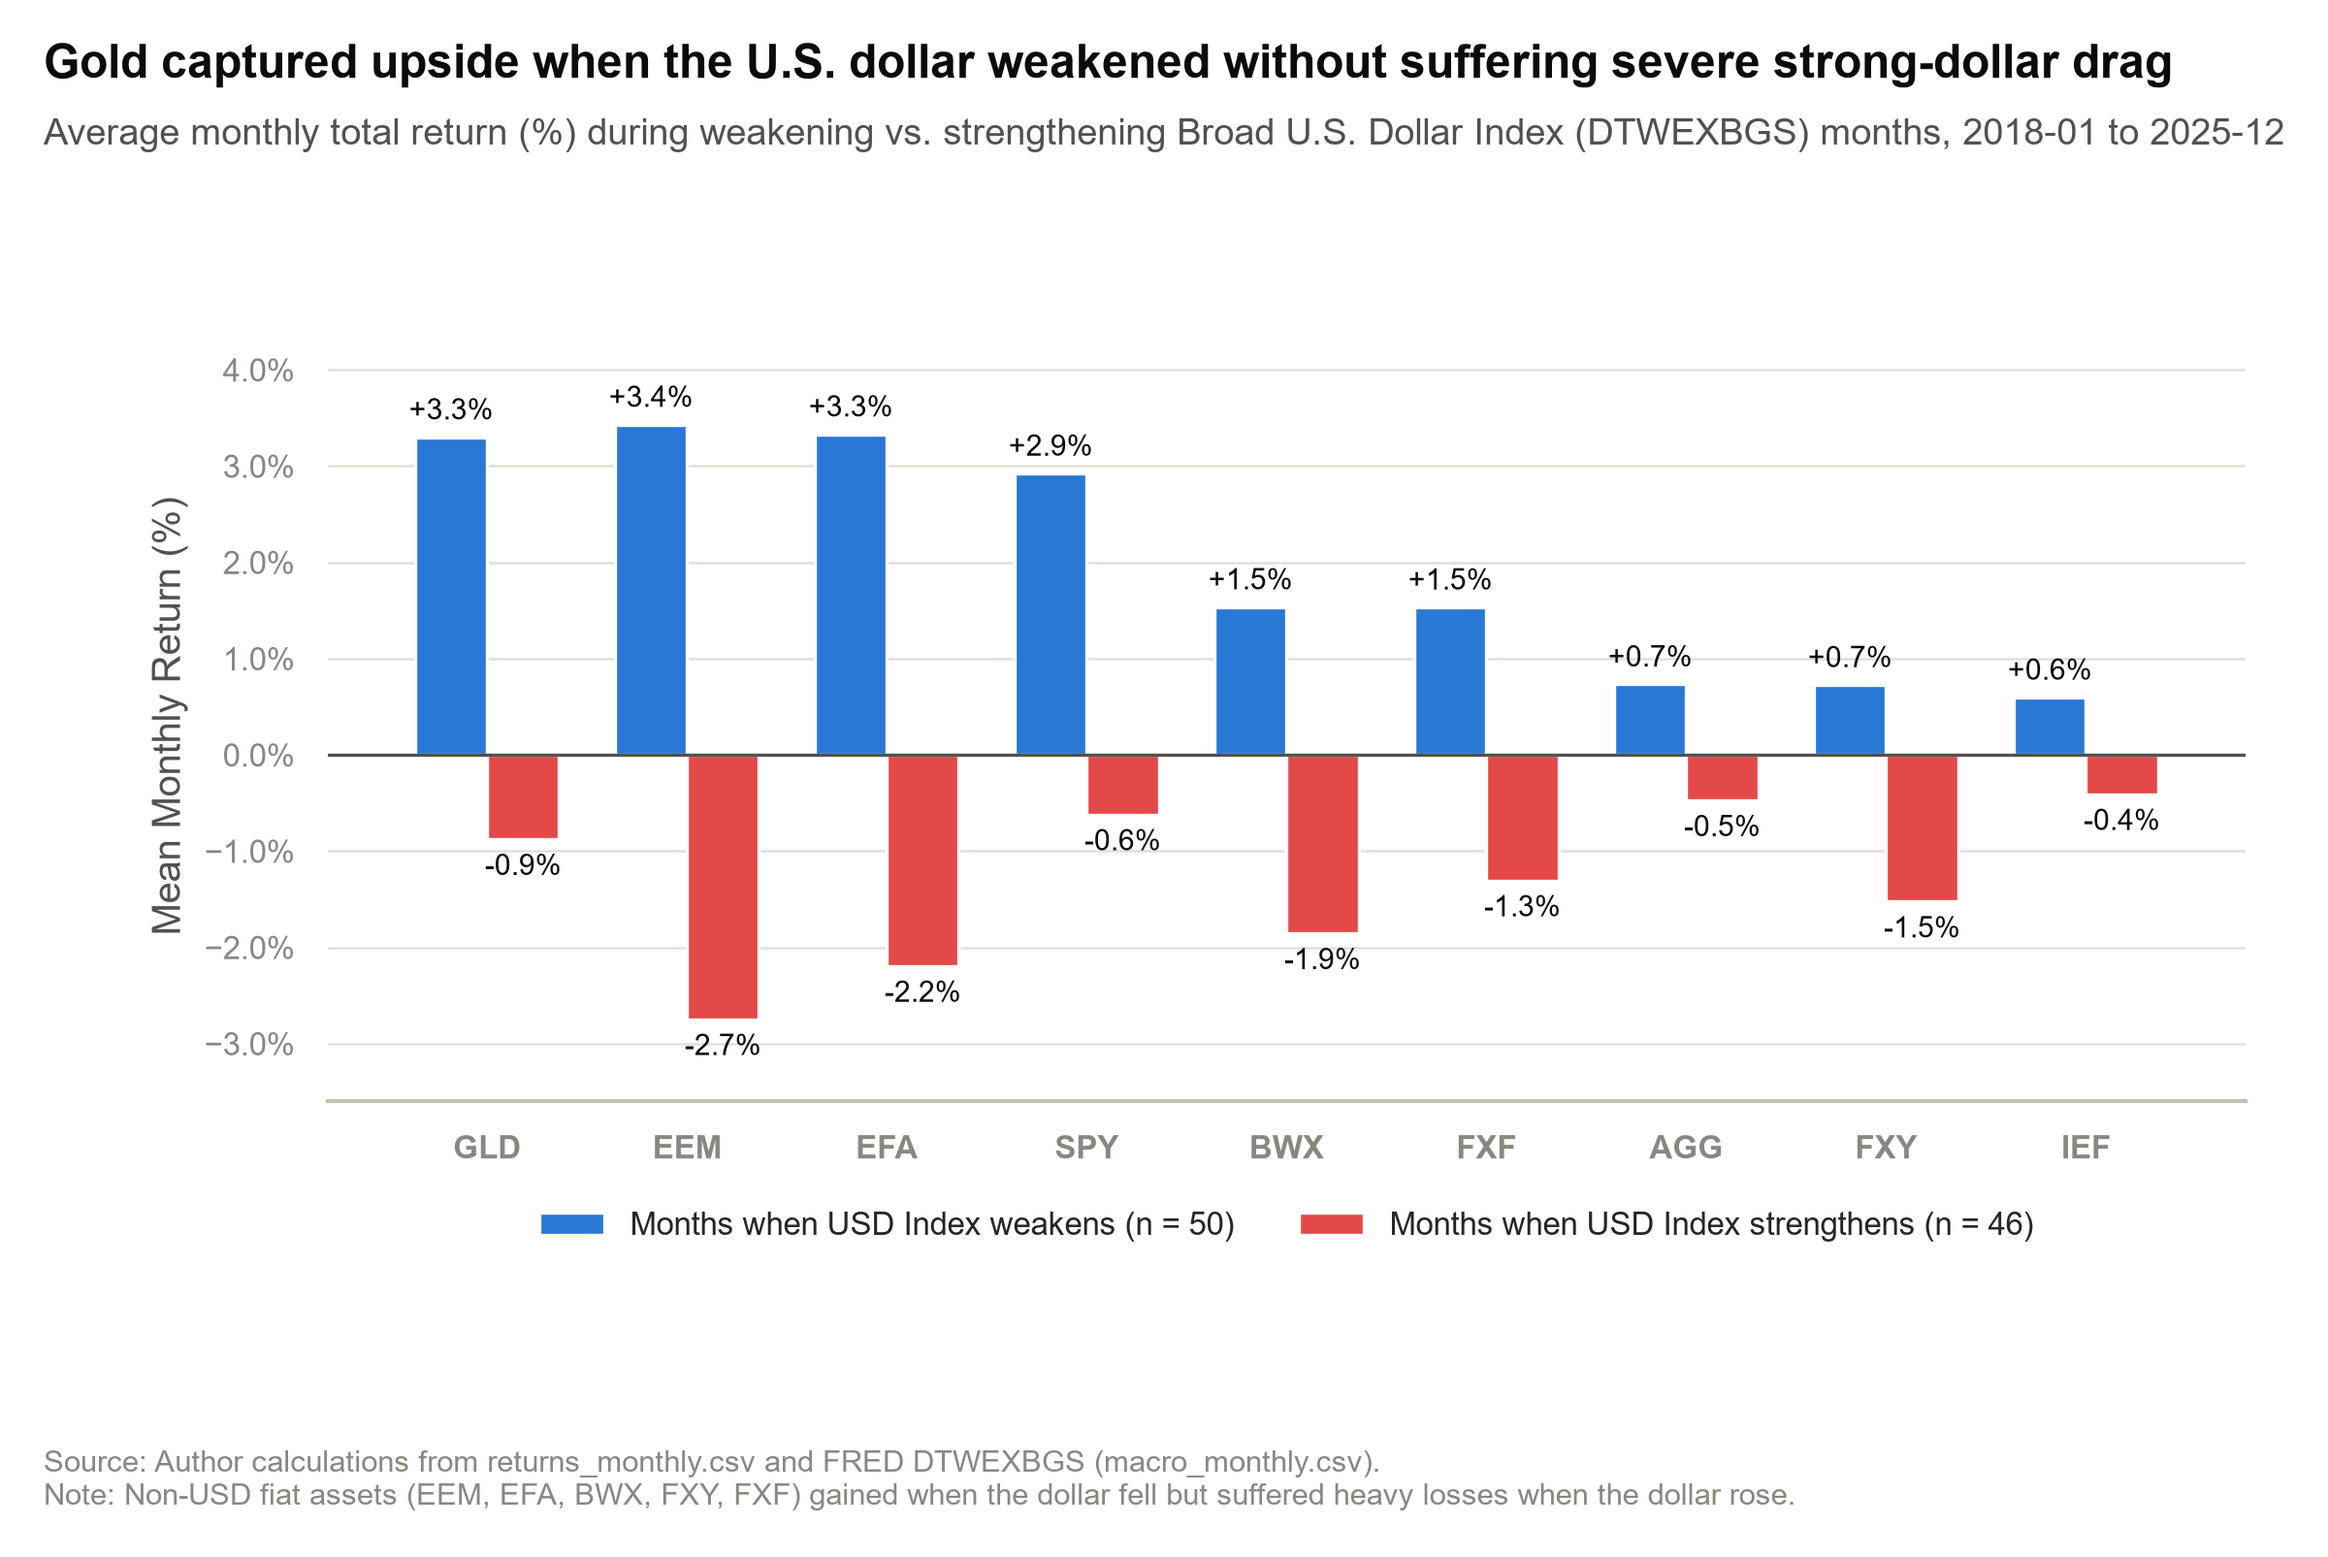
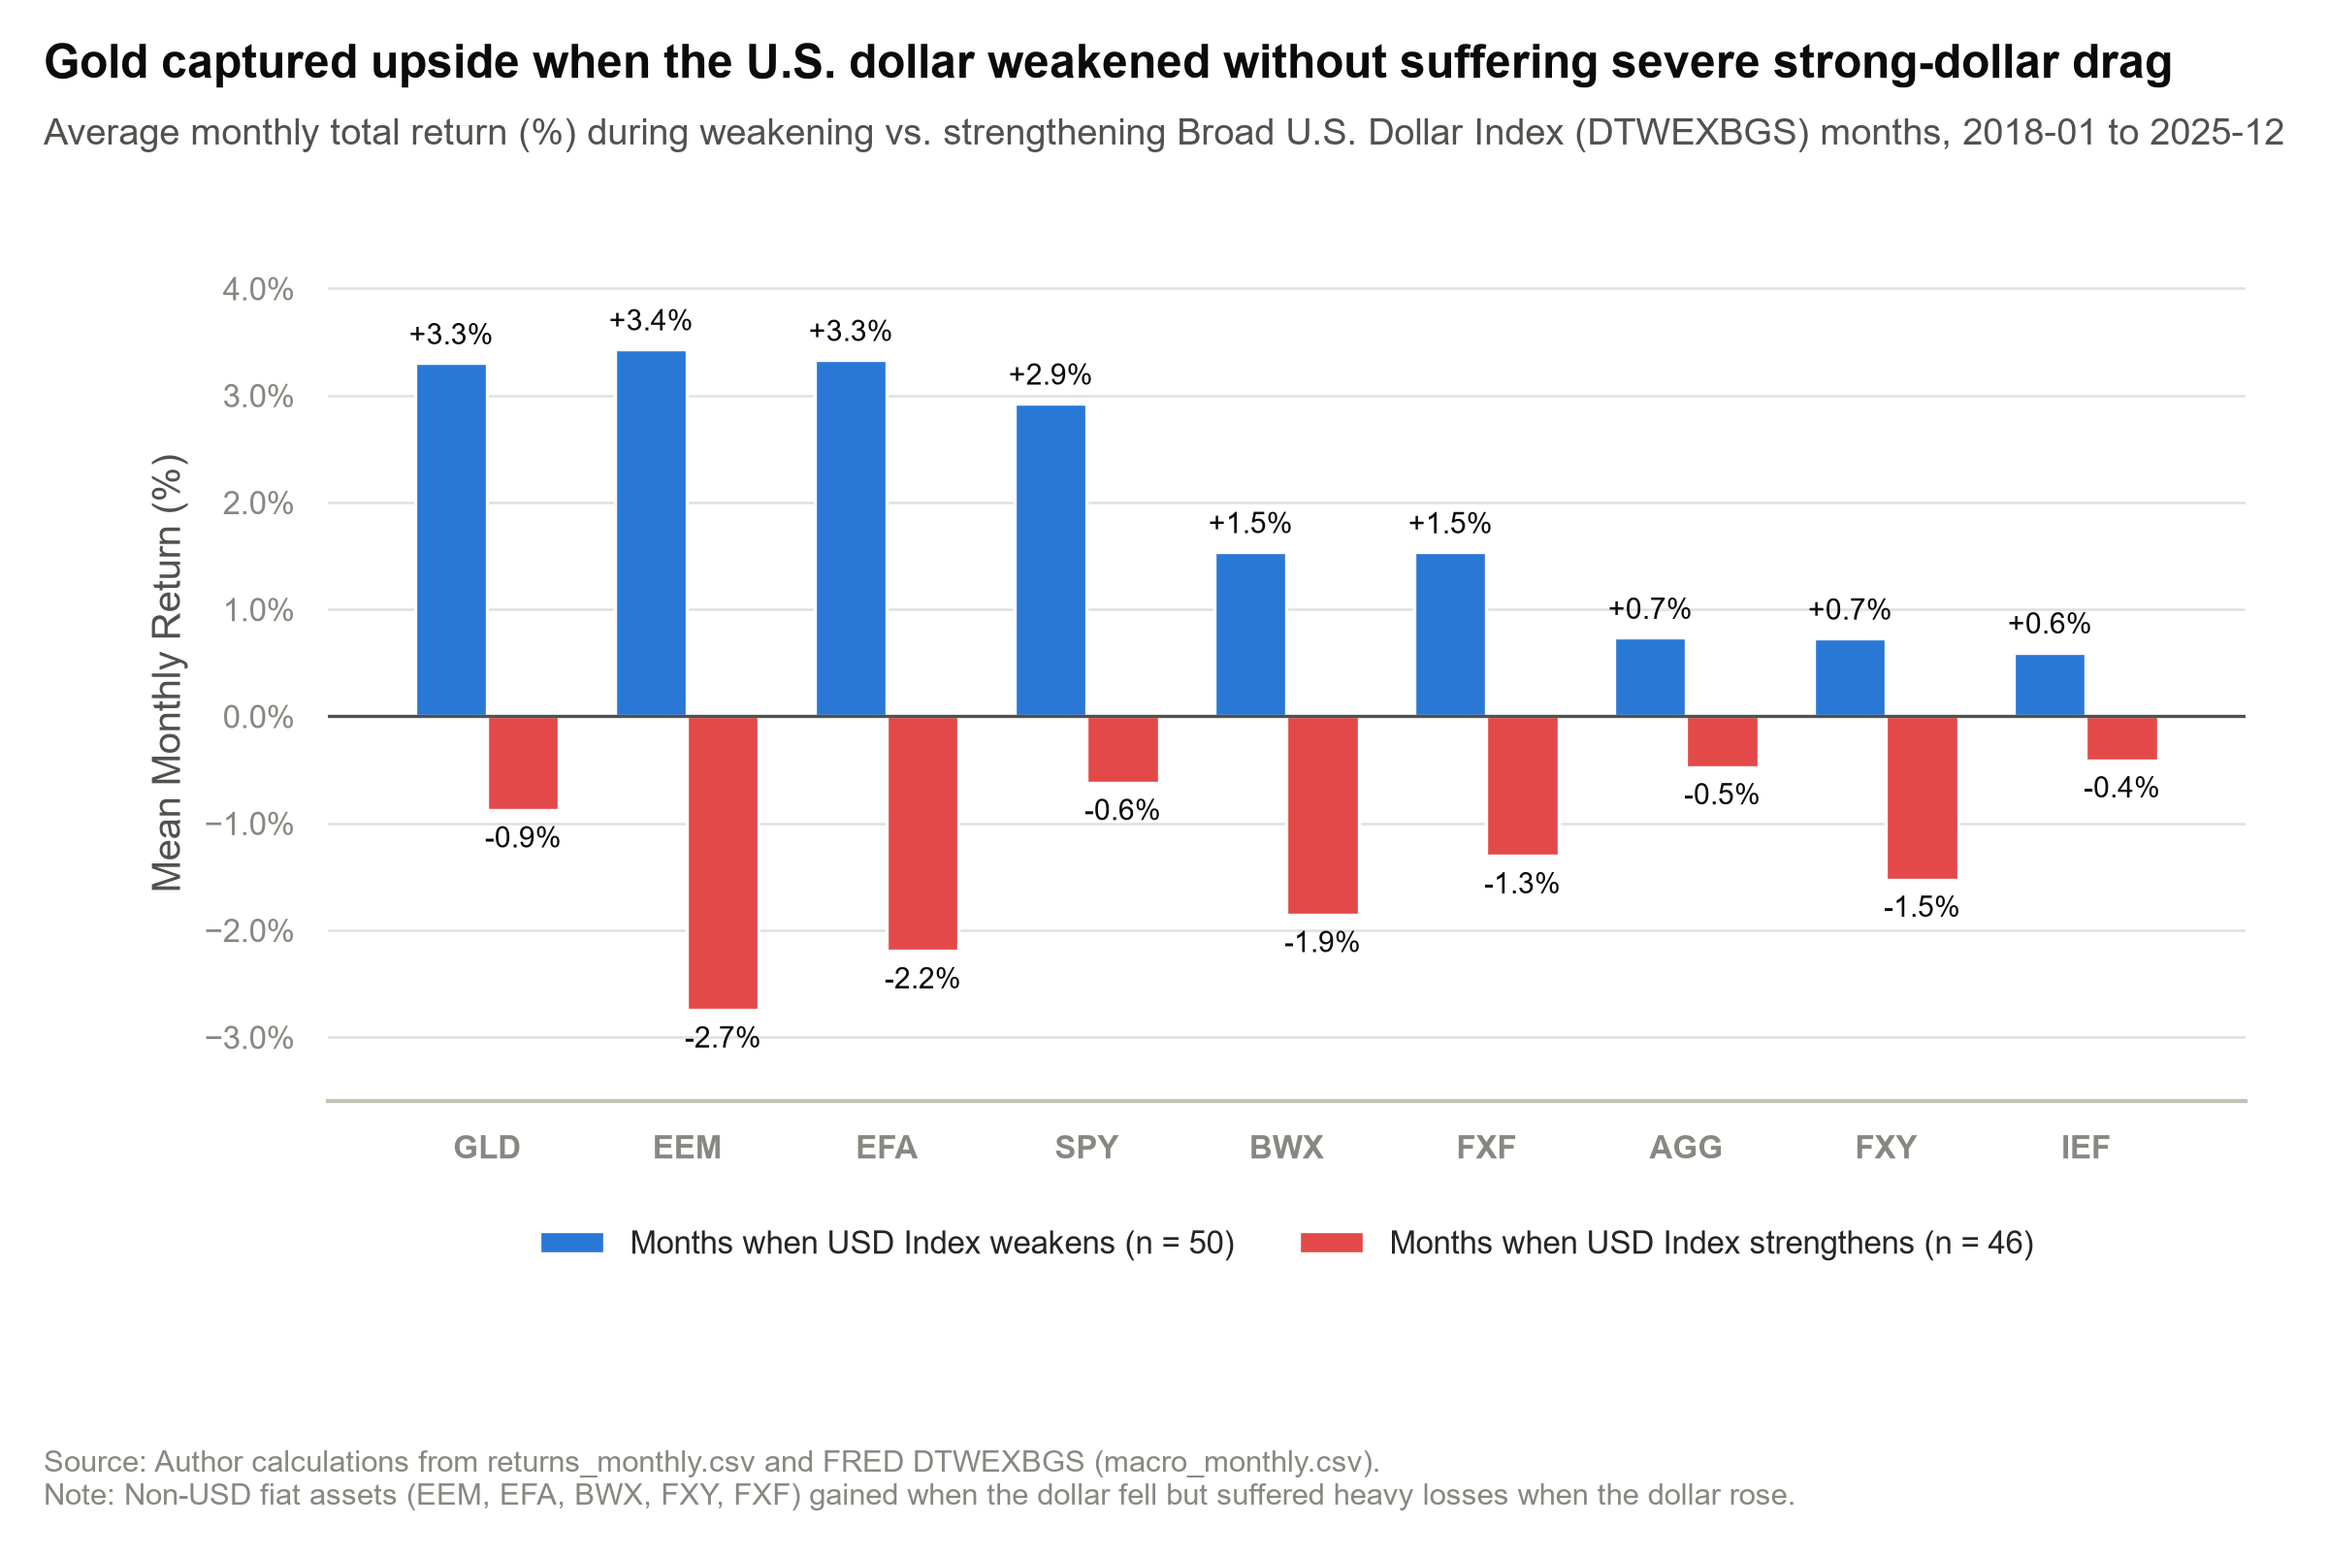
adjusted rq3 plot margins

diff --git a/scripts/rq3/run_rq3_analysis.py b/scripts/rq3/run_rq3_analysis.py
@@ -372,7 +372,7 @@ def fig_01_wealth_drawdown(df):
         frameon=False,
         fontsize=7.8,
     )
-    fig.subplots_adjust(bottom=0.17)
+    fig.subplots_adjust(top=0.95, bottom=0.17)
 
     finish(
         fig,
@@ -440,7 +440,7 @@ def fig_02_rolling_correlations(df):
         frameon=False,
         fontsize=8.2,
     )
-    fig.subplots_adjust(bottom=0.28)
+    fig.subplots_adjust(top=0.95, bottom=0.28)
 
     finish(
         fig,
@@ -517,7 +517,7 @@ def fig_03_dollar_sensitivity(df):
         frameon=False,
         fontsize=8,
     )
-    fig.subplots_adjust(bottom=0.25)
+    fig.subplots_adjust(top=0.95, bottom=0.25)
 
     finish(
         fig,
@@ -646,7 +646,7 @@ def fig_04_efficient_frontier(df):
         frameon=False,
         fontsize=7.5,
     )
-    fig.subplots_adjust(bottom=0.26)
+    fig.subplots_adjust(top=0.95, bottom=0.26)
 
     finish(
         fig,
@@ -736,7 +736,7 @@ def fig_05_multi_crisis_2008_2025(df):
         frameon=False,
         fontsize=8,
     )
-    fig.subplots_adjust(bottom=0.29)
+    fig.subplots_adjust(top=0.95, bottom=0.29)
 
     finish(
         fig,
